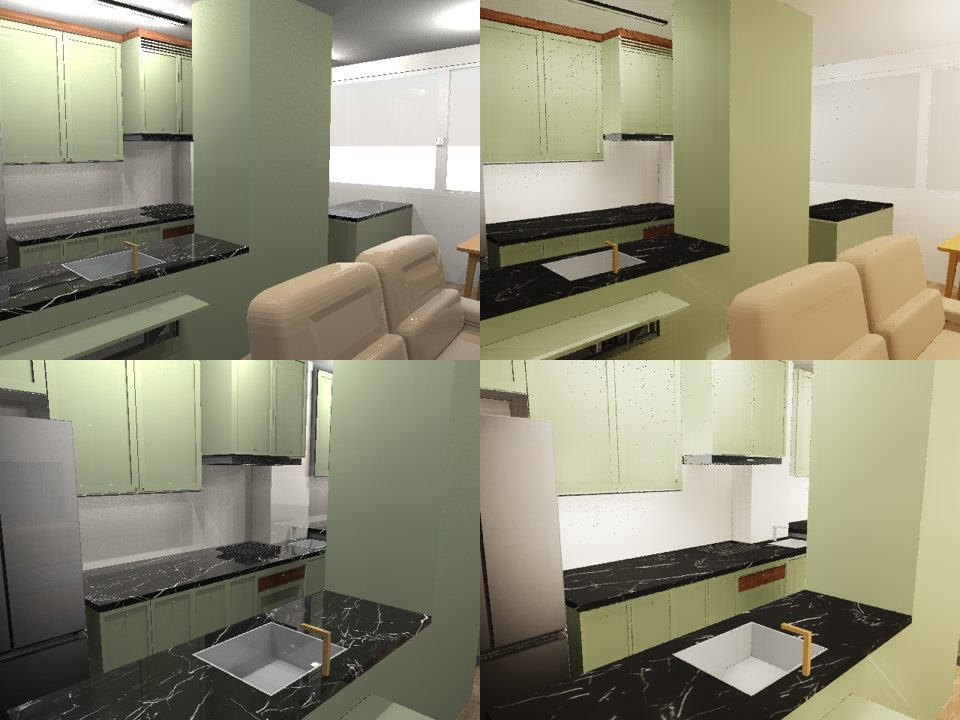
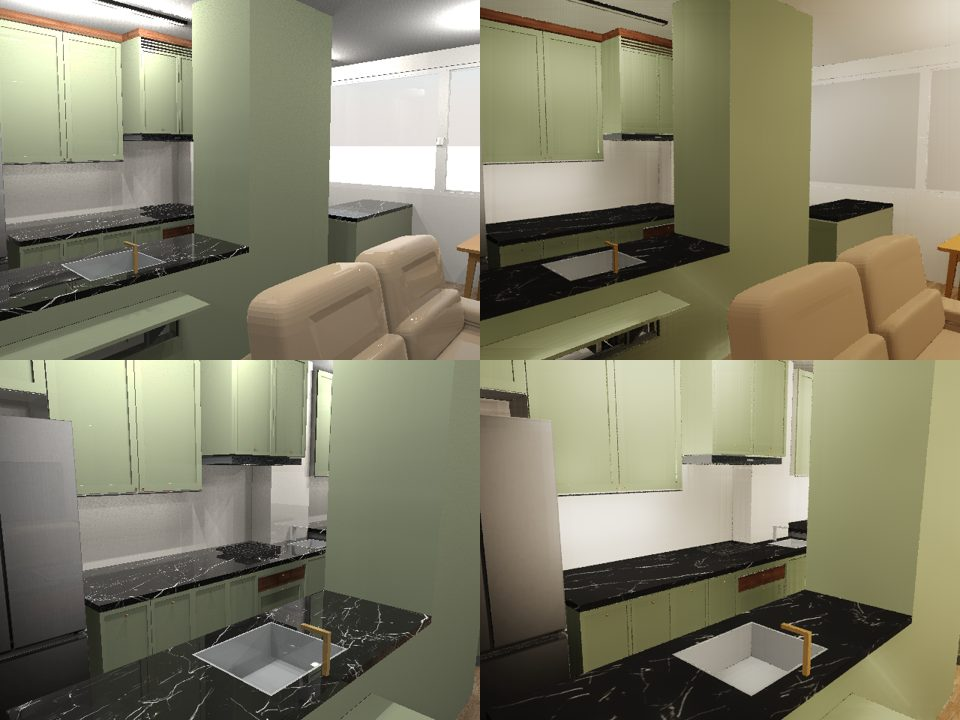
fix(photo): exposure matched to Sweet Home 3D, no dark specks
Auto exposure aims at the average brightness of Sweet Home 3D photos of
the same cameras; the denoiser weighs brightness symmetrically so pixels
whose samples missed the light blend in, and broken samples are skipped.

Claude-Session: https://claude.ai/code/session_01SKcnEsvHARiR2NBEnaprgL

diff --git a/crates/newera-render/src/photo.rs b/crates/newera-render/src/photo.rs
@@ -55,6 +55,9 @@ impl std::fmt::Debug for PhotoOptions<'_> {
     }
 }
 
+/// Log-average luminance auto exposure aims for.
+const AUTO_EXPOSURE_KEY: f32 = 0.12;
+
 /// Sun position for a moment and place: `(azimuth, elevation)` in degrees,
 /// azimuth clockwise from north. Simplified solar ephemeris (good to a
 /// fraction of a degree, plenty for daylight).
@@ -559,8 +562,10 @@ pub fn render_photo(mesh: &Mesh, options: &PhotoOptions<'_>) -> RgbaImage {
                         let dir = (forward + right * sx + up * sy).normalize();
                         let mut first = None;
                         let value = radiance(scene, lighting, eye, dir, &mut rng, &mut first);
-                        // Clamp fireflies from rare paths.
-                        sum += value.min(Vec3::splat(20.0));
+                        // Clamp fireflies from rare paths; a broken sample adds nothing.
+                        if value.is_finite() {
+                            sum += value.min(Vec3::splat(20.0));
+                        }
                         let f = first.unwrap_or_default();
                         surface.albedo += f.albedo;
                         surface.normal += f.normal;
@@ -591,13 +596,14 @@ pub fn render_photo(mesh: &Mesh, options: &PhotoOptions<'_>) -> RgbaImage {
     }
 
     let denoised = denoise(&pixels, w, h);
-    // Auto exposure: bring the scene's average brightness to a mid gray.
+    // Auto exposure: bring the scene's average brightness to a middle tone
+    // (calibrated against Sweet Home 3D photos of the same cameras).
     let log_mean = denoised
         .iter()
         .map(|c| (luminance(*c) + 1e-4).ln())
         .sum::<f32>()
         / denoised.len().max(1) as f32;
-    let auto = (0.2 / log_mean.exp()).clamp(0.3, 30.0);
+    let auto = (AUTO_EXPOSURE_KEY / log_mean.exp()).clamp(0.3, 30.0);
     let mut image = RgbaImage::new(w as u32, h as u32);
     for (i, value) in denoised.iter().enumerate() {
         let mapped = aces(*value * exposure * auto).powf(1.0 / 2.2) * 255.0;
@@ -654,7 +660,10 @@ fn denoise(pixels: &[(Vec3, Surface)], w: usize, h: usize) -> Vec<Vec3> {
                         let depth = (-(s.depth - qs.depth).abs()
                             / (0.05 * s.depth.max(0.5) * step as f32))
                             .exp();
-                        let lum = (-(cl - luminance(q)).abs() / (0.6 * (cl + 0.05))).exp();
+                        // Symmetric in the pair, so a pixel whose few samples all
+                        // missed the light still borrows from brighter neighbors.
+                        let ql = luminance(q);
+                        let lum = (-(cl - ql).abs() / (0.6 * (cl.max(ql) + 0.05))).exp();
                         let wgt = kx * ky * normal * depth * lum;
                         sum += q * wgt;
                         weight += wgt;
